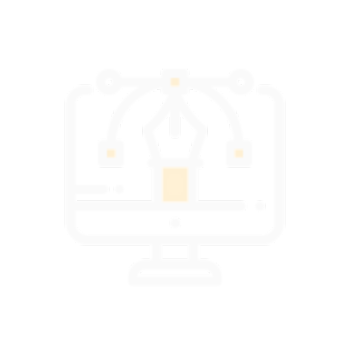
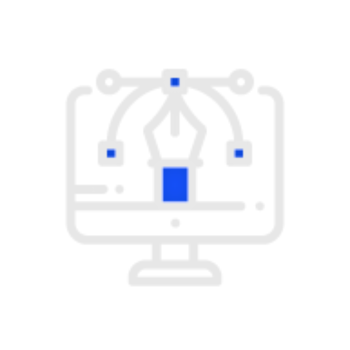
fix header: image position issue

diff --git a/public/light/assets/css/style.css b/public/light/assets/css/style.css
@@ -260,7 +260,7 @@ figure {
 }
 
 .main-colorbg2 {
-  background-color: #222421;
+  background-color: #fca311;
 }
 
 .main-color3 {
@@ -287,7 +287,7 @@ figure {
 }
 
 .sub-bg {
-  background-color: #fafafa;
+  background-color: #dbdbdb;
 }
 
 .bg-gray1 {
@@ -1464,13 +1464,8 @@ img.left {
 }
 
 .bg-img {
-  -webkit-background-size: cover !important;
-  -o-background-size: cover !important;
-  -ms-background-size: cover !important;
-  background-position: center center !important;
-  background-repeat: no-repeat !important;
-  background-size: cover !important;
-  background-attachment: scroll !important;
+  background-size: cover;
+  background-repeat: no-repeat;
 }
 
 .bg-center {
@@ -1708,6 +1703,9 @@ img.left {
 
 .icon-img-120 {
   width: 300px;
+}
+.icon-img-140 {
+  width: 340px;
 }
 
 /*-------------------------------------------------------
@@ -7890,8 +7888,12 @@ header.in-box {
   right: 0;
   bottom: 0;
   left: 0;
-  background-size: auto;
+  background-size: cover;
   background-position: center center;
+  pointer-events: none;
+  -webkit-transition: all 0.4s;
+  -o-transition: all 0.4s;
+  transition: all 0.4s;
 }
 
 .slider .parallax-slider .swiper-slide-active .caption .thin,
@@ -10392,12 +10394,12 @@ header.in-box {
     padding: 40px 25px;
   }
 }
-@media screen and (max-width: 390px) {
+/* @media screen and (max-width: 390px) {
   .slider .parallax-slider .swiper-slide {
     position: relative;
     overflow: hidden;
     width: 100%;
-    height: 20vh;
+    height: 100%;
     padding: 0;
   }
   .slider .parallax-slider .swiper-slide .bg-img {
@@ -10419,10 +10421,10 @@ header.in-box {
     -webkit-mask-size: cover !important;
     mask-size: cover !important;
 
-    background-size: contain !important;
+    background-size: cover !important;
     background-repeat: no-repeat;
     background-position: center center;
   }
-}
+} */
 
 /* ====================== [ End Responsive ] ====================== */

diff --git a/src/components/Main/Header.jsx b/src/components/Main/Header.jsx
@@ -56,17 +56,26 @@ function Header({ lightMode }) {
             <SwiperSlide key={item.id}>
               <div
                 className="bg-img valign"
-                style={{
-                  backgroundImage: `url(${window.innerWidth > 768 ? item?.backgroundMobile : item?.background})`,
-                }}
+                data-background={
+                  window.innerWidth > 768
+                    ? item?.background
+                    : item?.backgroundMobile
+                }
               ></div>
               <div className="container">
                 <div className="row">
-                  <div className="col-lg-12 offset-lg-1 valign" style={{ marginTop: "40%" }}>
+                  <div
+                    className="col-lg-12 offset-lg-1 valign"
+                    style={{ marginTop: "40%" }}
+                  >
                     <div className="mr-auto slider me-auto mt-100 top-50 caption text-center">
                       <Link
                         className="btn btn-lg"
-                        href={lightMode ? "/light/page-portfolio" : "/dark/page-portfolio"}
+                        href={
+                          lightMode
+                            ? "/light/page-portfolio"
+                            : "/dark/page-portfolio"
+                        }
                       >
                         <Button variant="warning" className="btn-warning">
                           Conoce mas

diff --git a/public/dark/assets/css/style.css b/public/dark/assets/css/style.css
@@ -260,7 +260,7 @@ figure {
 }
 
 .main-colorbg2 {
-  background-color: #222421;
+  background-color: #fca311;
 }
 
 .main-color3 {
@@ -313,7 +313,7 @@ figure {
 }
 
 img {
-  width: 100%;
+  width: 4rem;
   height: auto;
 }
 
@@ -1680,7 +1680,10 @@ img.left {
 }
 
 .icon-img-120 {
-  width: 120px;
+  width: 300px;
+}
+.icon-img-140 {
+  width: 340px;
 }
 
 /*-------------------------------------------------------
@@ -7827,6 +7830,11 @@ header.in-box {
   bottom: 0;
   left: 0;
   background-size: cover;
+  background-position: center center;
+  pointer-events: none;
+  -webkit-transition: all 0.4s;
+  -o-transition: all 0.4s;
+  transition: all 0.4s;
 }
 
 .slider .parallax-slider .swiper-slide-active .caption .thin,
@@ -9596,7 +9604,7 @@ header.in-box {
     max-width: 100%;
   }
   .navbar .logo {
-    max-width: 80px !important;
+    max-width: 100px !important;
     margin-left: 30px;
   }
   .navbar .search-form {
@@ -9992,6 +10000,11 @@ header.in-box {
       transform: scale(1.1);
     }
   }
+}
+
+img {
+  width: 2rem;
+  height: auto;
 }
 
 

diff --git a/src/components/Main/Services.jsx b/src/components/Main/Services.jsx
@@ -20,7 +20,12 @@ function Services({ lightMode }) {
                 />
               </div>
               <h4 className="mb-15" key={item.id} style={{ color: "#fca311"  }}>{item.title}</h4>
-              <h6 className="mb-15 text-dark">{item.subtitle}</h6>
+              <h6
+                className="mb-15"
+                style={{ color: lightMode ? "#000" : "#fff" }}
+              >
+                {item.subtitle}
+              </h6>
               <p>{item.text}</p>
               <Link
                 href={`/${

diff --git a/src/components/Main/Footer.jsx b/src/components/Main/Footer.jsx
@@ -92,7 +92,7 @@ function Footer({ lightMode, subBg }) {
                   <Link href="/">
                     <img
                       src={`/dark/assets/imgs/logo-footer-${
-                        lightMode ? "dark" : "light"
+                        lightMode ? "dark" : "dark"
                       }.png`}
                       alt=""
                       className="icon-img-80"

diff --git a/public/light/assets/scss/layout/_header.scss b/public/light/assets/scss/layout/_header.scss
@@ -3,12 +3,12 @@
 -----------------------------------------------------------------*/
 
 .page-header{
-    min-height: 60vh;
+    min-height: 100%;
     position: relative;
     overflow: hidden;
 
     .background{
-        min-height: 480px;
+        min-height: 100%;
     }
 
     .caption{

diff --git a/public/dark/assets/scss/layout/_header.scss b/public/dark/assets/scss/layout/_header.scss
@@ -108,7 +108,7 @@
 
     .bg-img{
         width: 100%;
-        height: 70vh;
+        height: 100%;
     }
 }
 
